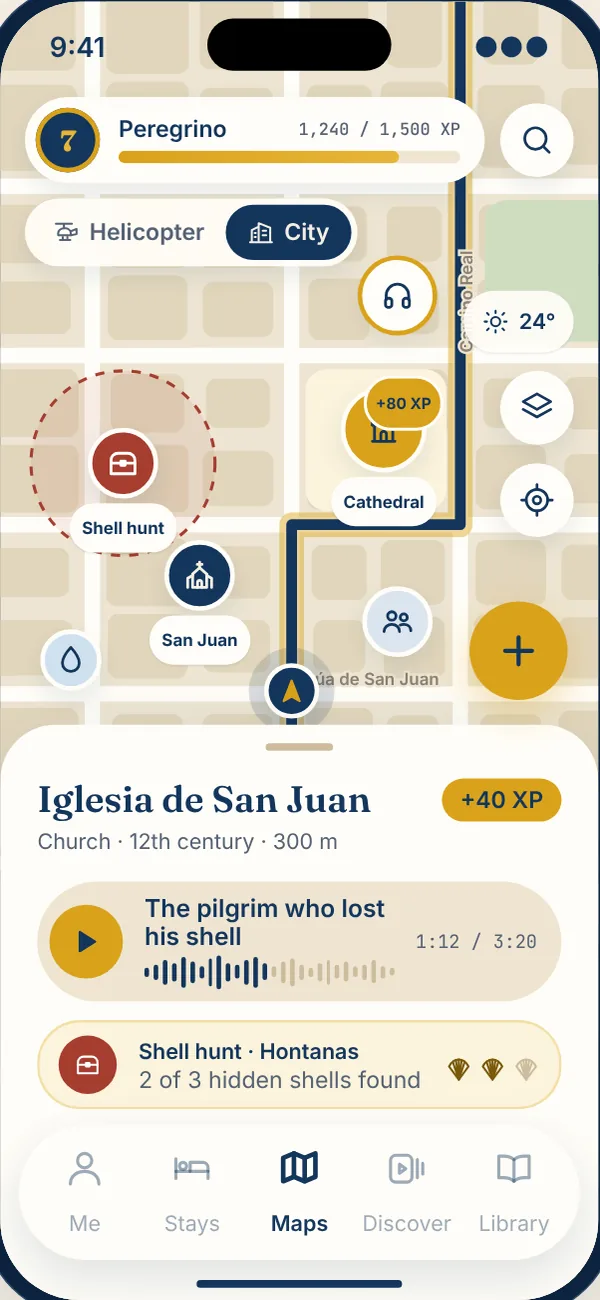
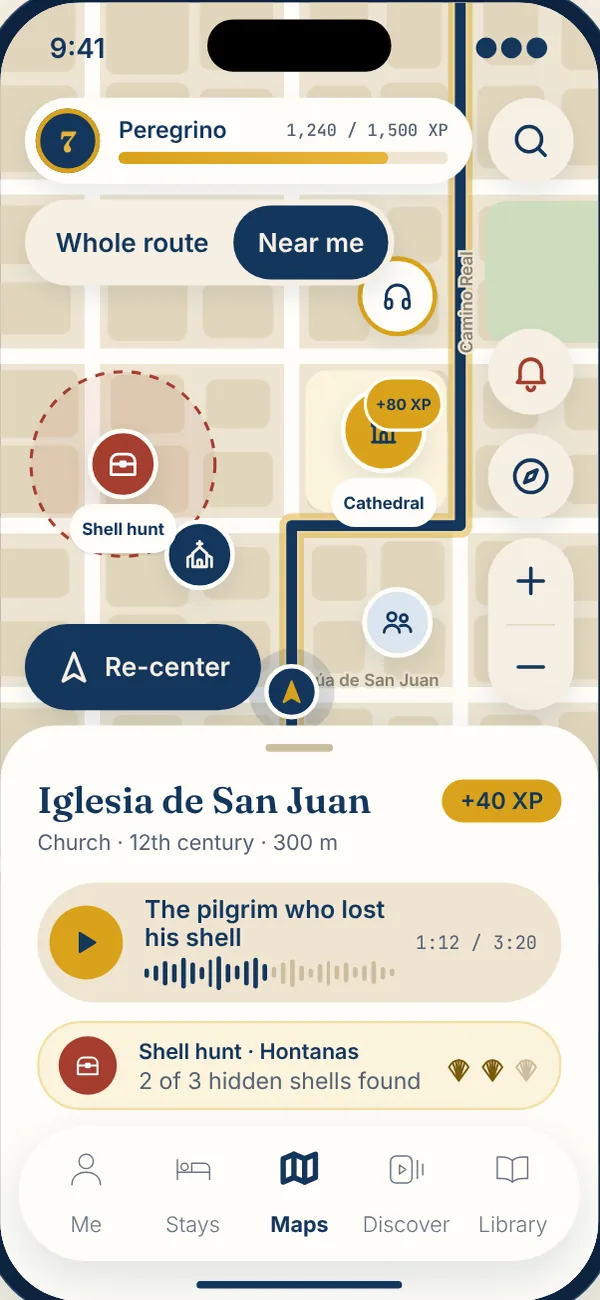
Design page and website pictures: the map phones show the one family of map controls
design/index.html is written by hand, and its map phones still drew the old controls: round buttons of 48, a "layers" and a "locate" button the app does not have, a switch of
36 high that said Helicopter and City, a weather chip, a gold report button, a hint pill and a "You" tag at 11 px. The CSS and the markup of the two map phones now say what the
app draws (mobile/src/features/map/WalkUi.tsx): .cp-map-btn is a round button of 56 with a 28 icon, .cp-map-stack puts them 12 apart, .cp-map-zoom is one capsule of 56 x 112,
.cp-recenter is the Re-center pill (56 high, a 24 arrow, "Re-center" in Inter SemiBold 17), .map-night is the night of the map, and .cp-layer-switch has tabs of 48 at 17 px (the phones
say "Whole route" and "Near me", as the app does). The Helicopter phone has the help bell, locate, the automatic light and the zoom capsule; the City phone, which is the Walk view, has
the bell, the compass, the zoom capsule and the Re-center pill. The gold report button leaves the City phone (it has no place beside the zoom capsule, and the app has no such button);
the label of the church pin is gone from it too, because the pill would have covered it. A new block, "Map controls: one family", in Map layers shows the family by day and by night
with its numbers and the rule for a short phone. The hint pill and the "You" tag are 15 px now (were 11). The unused .cp-fab-stack rule is removed.
[…]

diff --git a/design/index.html b/design/index.html
@@ -405,7 +405,6 @@ textarea.cp-input { height: 120px; border-radius: var(--cp-radius-lg); padding: 
 .cp-alert .bubble { width: 48px; height: 48px; border-radius: 50%; display: grid; place-items: center; flex: none; }
 .cp-alert .t { font-weight: 600; font-size: 17px; line-height: 20px; }
 .cp-alert .m { font-size: 15px; line-height: 18px; color: var(--cp-text-muted); }
-.cp-fab-stack { display: flex; flex-direction: column; gap: 12px; }
 .cp-report-fab { width: 64px; height: 64px; border-radius: 50%; background: var(--cp-color-gold); color: var(--cp-color-blue); display: grid; place-items: center; box-shadow: var(--cp-shadow-gold); border: 0; }
 .cp-report-fab .cp-icon { width: 30px; height: 30px; stroke-width: 2.2px; }
 .cp-eta { display: flex; align-items: center; gap: 14px; }
@@ -978,24 +977,45 @@ footer .hand { font-family: var(--cp-font-accent); font-size: 36px; color: var(-
 .cp-menu small { display: block; font-family: var(--cp-font-body); font-weight: 400; font-size: 15px; color: var(--cp-text-muted); }
 
 /* ---- v4: map layers (helicopter / city) ---- */
-.cp-layer-switch { align-self: flex-start; display: inline-flex; padding: 4px; border-radius: var(--cp-radius-pill); background: rgba(255,253,248,.94); backdrop-filter: blur(10px); box-shadow: var(--cp-shadow-md); }
-.cp-layer-switch span { display: inline-flex; align-items: center; gap: 6px; height: 36px; padding: 0 14px; border-radius: var(--cp-radius-pill); font-size: 15px; font-weight: 600; color: var(--cp-text-muted); white-space: nowrap; }
+.cp-layer-switch { align-self: flex-start; display: inline-flex; padding: 4px; border-radius: var(--cp-radius-pill); background: var(--cp-color-parchment); box-shadow: var(--cp-shadow-md); }
+.cp-layer-switch span { display: inline-flex; align-items: center; gap: 8px; height: 48px; padding: 0 16px; border-radius: var(--cp-radius-pill); font-size: 17px; line-height: 22px; font-weight: 600; color: var(--cp-color-blue); white-space: nowrap; }
 .cp-layer-switch span .cp-icon { width: 18px; height: 18px; }
 .cp-layer-switch span.on { background: var(--cp-color-blue); color: var(--cp-color-parchment); }
 .cp-pin.sm { width: 34px; height: 34px; border-width: 2.5px; }
 .cp-pin.sm .cp-icon { width: 17px; height: 17px; }
 .cp-pin.iconic.md { width: 50px; height: 50px; }
-.cp-hint { display: inline-flex; align-items: center; gap: 8px; height: 34px; padding: 0 14px; border-radius: var(--cp-radius-pill); background: rgba(12,35,64,.82); color: var(--cp-color-parchment); font-family: var(--cp-font-mono); font-size: 11px; white-space: nowrap; }
-.cp-hint .cp-icon { width: 16px; height: 16px; }
+.cp-hint { display: inline-flex; align-items: center; gap: 8px; height: 40px; padding: 0 16px; border-radius: var(--cp-radius-pill); background: rgba(12,35,64,.82); color: var(--cp-color-parchment); font-family: var(--cp-font-mono); font-size: 15px; white-space: nowrap; }
+.cp-hint .cp-icon { width: 18px; height: 18px; }
 .cp-elev { display: block; width: 100%; height: 64px; }
 .cp-youhere { position: absolute; z-index: 3; display: flex; align-items: center; gap: 8px; }
 .cp-youhere .ring { width: 50px; height: 50px; border-radius: 50%; background: rgba(217,162,27,.28); display: grid; place-items: center; }
 .cp-youhere .dot { width: 30px; height: 30px; border-radius: 50%; background: var(--cp-color-blue); border: 3px solid var(--cp-color-white); box-shadow: var(--cp-shadow-md); display: grid; place-items: center; }
 .cp-youhere .dot .cp-icon { width: 14px; height: 14px; fill: var(--cp-color-gold); stroke: var(--cp-color-gold); }
-.cp-youhere .tag { background: var(--cp-color-white); border-radius: var(--cp-radius-pill); padding: 4px 10px; font-size: 11px; font-weight: 700; box-shadow: var(--cp-shadow-sm); white-space: nowrap; }
+.cp-youhere .tag { background: var(--cp-color-white); border-radius: var(--cp-radius-pill); padding: 4px 12px; font-size: 15px; font-weight: 700; box-shadow: var(--cp-shadow-sm); white-space: nowrap; }
 .cp-legend { display: grid; grid-template-columns: 1fr 1fr; gap: 12px 20px; font-size: 16px; }
 .cp-legend div { display: flex; align-items: center; gap: 10px; }
 .cp-legend i { width: 26px; height: 0; display: block; flex: none; }
+
+/* ---- Map controls: ONE family on the map (mobile/src/features/map/WalkUi.tsx, controlLayout.ts). Round buttons of 56 (touchPrimary) with a 28 icon, 12 apart, 16 from the edge
+   of the screen; the zoom pair is one capsule of 56 x 112; the Re-center pill is 56 high with a 24 arrow and its label in Inter SemiBold 17. The map has its own day and night
+   (.map-night), and neither follows the app's dark mode. A short phone shows the controls that fit, most important first, and folds the rest into "Map options" of the route sheet. ---- */
+.cp-map-btn { position: relative; width: 56px; height: 56px; padding: 0; border: 0; border-radius: 50%; display: inline-grid; place-items: center; background: var(--cp-color-parchment); color: var(--cp-color-blue); box-shadow: var(--cp-shadow-md); cursor: pointer; }
+.cp-map-btn .cp-icon { width: 28px; height: 28px; stroke-width: 2px; }
+.cp-map-btn.bell { color: var(--cp-color-red); }
+.cp-map-btn.on { background: var(--cp-color-gold-wash); box-shadow: inset 0 0 0 1.5px var(--cp-color-gold), var(--cp-shadow-md); }
+.cp-map-btn .auto { position: absolute; right: 2px; bottom: 2px; width: 20px; height: 20px; border-radius: 50%; background: var(--cp-color-gold); color: var(--cp-color-blue); display: grid; place-items: center; font: 600 17px/20px var(--cp-font-body); }
+.cp-map-stack { display: flex; flex-direction: column; align-items: flex-end; gap: 12px; }
+.cp-map-zoom { position: relative; width: 56px; height: 112px; border-radius: 28px; display: grid; grid-template-rows: 56px 56px; background: var(--cp-color-parchment); color: var(--cp-color-blue); box-shadow: var(--cp-shadow-md); }
+.cp-map-zoom button { border: 0; padding: 0; background: none; color: inherit; display: grid; place-items: center; cursor: pointer; }
+.cp-map-zoom .cp-icon { width: 28px; height: 28px; stroke-width: 2px; }
+.cp-map-zoom::after { content: ""; position: absolute; left: 12px; right: 12px; top: 56px; height: 1px; background: var(--cp-color-sand-300); }
+.cp-recenter { display: inline-flex; align-items: center; gap: 8px; height: 56px; padding: 0 20px; border: 0; border-radius: 28px; background: var(--cp-color-blue); color: var(--cp-color-parchment); font: 600 17px/22px var(--cp-font-body); box-shadow: var(--cp-shadow-md); cursor: pointer; white-space: nowrap; }
+.cp-recenter .cp-icon { width: 24px; height: 24px; stroke-width: 2.2px; }
+.map-night .cp-map-btn, .map-night .cp-map-zoom { background: #13243C; color: #F6EFE2; box-shadow: inset 0 0 0 1.5px rgba(246,239,226,.24), var(--cp-shadow-md); }
+.map-night .cp-map-btn.bell { color: #E8776A; }
+.map-night .cp-map-btn.on { background: #1E3A63; box-shadow: inset 0 0 0 1.5px var(--cp-color-gold), var(--cp-shadow-md); }
+.map-night .cp-map-zoom::after { background: rgba(246,239,226,.24); }
+.map-night .cp-recenter { background: #13243C; box-shadow: inset 0 0 0 1.5px rgba(246,239,226,.24), var(--cp-shadow-md); }
 
 /* ---- v5: inbox, notifications, Instagram-style post flow ---- */
 .cp-inbox-top { display: flex; align-items: center; gap: 10px; }
@@ -1683,12 +1703,12 @@ footer .hand { font-family: var(--cp-font-accent); font-size: 36px; color: var(-
       <div class="cp-alert"><span class="bubble b-blue"><svg class="cp-icon"><use href="#i-crowd"/></svg></span><div style="flex:1"><div class="t">Busy at Hontanas</div><div class="m">Albergues filling fast after 14:00</div></div></div>
       <div class="cp-alert"><span class="bubble b-red"><svg class="cp-icon"><use href="#i-bed-full"/></svg></span><div style="flex:1"><div class="t">Albergue Municipal is full</div><div class="m">2 alternatives within 800 m</div></div></div>
       <div class="panel row" style="justify-content:space-between">
-        <div class="cp-fab-stack"><button class="cp-icon-btn"><svg class="cp-icon"><use href="#i-layers"/></svg></button><button class="cp-icon-btn"><svg class="cp-icon"><use href="#i-locate"/></svg></button></div>
+        <div class="cp-map-stack"><button class="cp-map-btn"><svg class="cp-icon"><use href="#i-layers"/></svg></button><button class="cp-map-btn"><svg class="cp-icon"><use href="#i-locate"/></svg></button></div>
         <span class="cp-badge glass" style="height:40px;padding:0 16px;font-size:15px"><svg class="cp-icon sm"><use href="#i-sun"/></svg>24° · Clear</span>
         <span class="cp-badge glass" style="height:40px;padding:0 16px;font-size:15px"><svg class="cp-icon sm"><use href="#i-offline"/></svg>Offline ready</span>
         <button class="cp-report-fab"><svg class="cp-icon"><use href="#i-plus"/></svg></button>
       </div>
-      <p class="spec" style="margin:0">.cp-alert (pill toast, shadow-lg) · floating .cp-icon-btn 48 · weather / offline glass pills · .cp-report-fab (gold, bottom-right)</p>
+      <p class="spec" style="margin:0">.cp-alert (pill toast, shadow-lg) · floating .cp-map-btn 56 with a 28 icon (see Map controls, in Map layers) · weather / offline glass pills · .cp-report-fab (gold, bottom-right)</p>
     </div>
   </div>
 </section>
@@ -1868,6 +1888,40 @@ footer .hand { font-family: var(--cp-font-accent); font-size: 36px; color: var(-
       <p class="note" style="margin:16px 0 0">Switch with the pill, or pinch: below zoom 9 the app shows Helicopter, above zoom 12 it shows City. The change flies the camera over 320 ms. Both layers work offline from the downloaded route pack.</p>
     </div>
   </div>
+
+  <h3>Map controls: one family</h3>
+  <div class="grid g2" style="align-items:start">
+    <div class="panel" style="background:#E7E0CB">
+      <div style="display:flex;gap:28px;align-items:flex-end;flex-wrap:wrap">
+        <div class="cp-map-stack">
+          <button class="cp-map-btn bell" aria-label="Need help"><svg class="cp-icon"><use href="#i-bell"/></svg></button>
+          <button class="cp-map-btn" aria-label="Compass"><svg class="cp-icon"><use href="#i-compass"/></svg></button>
+          <button class="cp-map-btn on" aria-label="What is near"><svg class="cp-icon"><use href="#i-search"/></svg></button>
+          <button class="cp-map-btn" aria-label="Map light: automatic"><svg class="cp-icon"><use href="#i-sun"/></svg><span class="auto" aria-hidden="true">A</span></button>
+          <div class="cp-map-zoom"><button aria-label="Zoom in"><svg class="cp-icon"><use href="#i-plus"/></svg></button><button aria-label="Zoom out"><svg class="cp-icon" viewBox="0 0 24 24"><path d="M5 12h14"/></svg></button></div>
+        </div>
+        <div style="display:flex;flex-direction:column;gap:16px;align-items:flex-start">
+          <button class="cp-recenter"><svg class="cp-icon"><use href="#i-nav"/></svg>Re-center</button>
+          <div class="cp-layer-switch"><span class="on">Whole route</span><span class="">Near me</span></div>
+        </div>
+      </div>
+    </div>
+    <div class="panel map-night" style="background:#0C1626">
+      <div style="display:flex;gap:28px;align-items:flex-end;flex-wrap:wrap">
+        <div class="cp-map-stack">
+          <button class="cp-map-btn bell" aria-label="Need help"><svg class="cp-icon"><use href="#i-bell"/></svg></button>
+          <button class="cp-map-btn" aria-label="Compass"><svg class="cp-icon"><use href="#i-compass"/></svg></button>
+          <button class="cp-map-btn on" aria-label="What is near"><svg class="cp-icon"><use href="#i-search"/></svg></button>
+          <button class="cp-map-btn" aria-label="Map light: night"><svg class="cp-icon"><use href="#i-moon"/></svg></button>
+          <div class="cp-map-zoom"><button aria-label="Zoom in"><svg class="cp-icon"><use href="#i-plus"/></svg></button><button aria-label="Zoom out"><svg class="cp-icon" viewBox="0 0 24 24"><path d="M5 12h14"/></svg></button></div>
+        </div>
+        <div style="display:flex;flex-direction:column;gap:16px;align-items:flex-start">
+          <button class="cp-recenter"><svg class="cp-icon"><use href="#i-nav"/></svg>Re-center</button>
+        </div>
+      </div>
+    </div>
+  </div>
+  <p class="spec" style="margin:16px 0 0">.cp-map-btn 56 round, icon 28 (.bell red, .on gold ring, .auto the A of the automatic light) · .cp-map-stack 12 apart, 16 from the edge · .cp-map-zoom one capsule 56 x 112, the halves 56 · .cp-recenter 56 high, 24 arrow, label 17 SemiBold, 16 from the left edge and level with the bottom of the stack · .map-night is the night of the map (it does not follow the app's dark mode). The zoom pair never folds; the help bell is in the column or in the row of buttons of the bottom card. On a short phone the column shows the controls that fit, most important first (zoom pair, help bell, compass or locate, what is near, light, GPS), and the rest are rows of "Map options" in the route sheet that the flag button opens. Nothing under 15 px, nothing under 48 to tap.</p>
 
   <h3>Inbox & notifications</h3>
   <div class="grid g2" style="align-items:start">
@@ -2986,13 +3040,15 @@ footer .hand { font-family: var(--cp-font-accent); font-size: 36px; color: var(-
         <div style="position:absolute;top:62px;left:16px;right:16px;display:flex;flex-direction:column;gap:10px;z-index:4">
           <div style="display:flex;gap:10px;align-items:center">
             <div class="cp-hud" style="flex:1"><span class="cp-level">7</span><div style="flex:1"><div class="t">Peregrino<span>1,240 / 1,500 XP</span></div><div class="cp-xp"><span style="width:82%"></span></div></div></div>
-            <button class="cp-icon-btn" aria-label="Search"><svg class="cp-icon "><use href="#i-search"/></svg></button>
+            <button class="cp-map-btn" aria-label="Search"><svg class="cp-icon "><use href="#i-search"/></svg></button>
           </div>
-          <div class="cp-layer-switch"><span class="on"><svg class="cp-icon "><use href="#i-heli"/></svg>Helicopter</span><span class=""><svg class="cp-icon "><use href="#i-city"/></svg>City</span></div>
+          <div class="cp-layer-switch"><span class="on">Whole route</span><span class="">Near me</span></div>
         </div>
-        <div class="cp-fab-stack" style="position:absolute;right:16px;top:188px;z-index:4">
-          <button class="cp-icon-btn" style="align-self:flex-end"><svg class="cp-icon "><use href="#i-layers"/></svg></button>
-          <button class="cp-icon-btn" style="align-self:flex-end"><svg class="cp-icon "><use href="#i-locate"/></svg></button>
+        <div class="cp-map-stack" style="position:absolute;right:16px;bottom:340px;z-index:4">
+          <button class="cp-map-btn bell" aria-label="Need help"><svg class="cp-icon "><use href="#i-bell"/></svg></button>
+          <button class="cp-map-btn" aria-label="Show my position"><svg class="cp-icon "><use href="#i-locate"/></svg></button>
+          <button class="cp-map-btn" aria-label="Map light: automatic"><svg class="cp-icon "><use href="#i-sun"/></svg><span class="auto" aria-hidden="true">A</span></button>
+          <div class="cp-map-zoom"><button aria-label="Zoom in"><svg class="cp-icon "><use href="#i-plus"/></svg></button><button aria-label="Zoom out"><svg class="cp-icon" viewBox="0 0 24 24"><path d="M5 12h14"/></svg></button></div>
         </div>
         <div class="cp-sheet" style="position:absolute;left:0;right:0;bottom:0;padding-bottom:124px;z-index:5">
           <div class="grab"></div>
@@ -3035,7 +3091,7 @@ footer .hand { font-family: var(--cp-font-accent); font-size: 36px; color: var(-
           <g font-family="Inter" font-size="11" font-weight="600" fill="#8C8272" paint-order="stroke" stroke="#EDE5D3" stroke-width="3"><text x="70" y="114">Calle Mayor</text><text x="198" y="444">Rúa de San Juan</text><text x="308" y="228" transform="rotate(-90 308 228)">Camino Real</text></g>
         </svg>
         <div class="cp-pin iconic" style="position:absolute;left:222px;top:250px;z-index:2"><svg class="cp-icon "><use href="#i-landmark"/></svg><span class="xp">+80 XP</span><span class="cp-pin-label">Cathedral</span></div>
-        <div class="cp-pin church" style="position:absolute;left:107px;top:350px;z-index:2"><svg class="cp-icon "><use href="#i-church"/></svg><span class="cp-pin-label">San Juan</span></div>
+        <div class="cp-pin church" style="position:absolute;left:107px;top:336px;z-index:2"><svg class="cp-icon "><use href="#i-church"/></svg></div>
         <div class="cp-pin hunt" style="position:absolute;left:57px;top:277px;z-index:2"><svg class="cp-icon "><use href="#i-chest"/></svg><span class="cp-pin-label">Shell hunt</span></div>
         <div class="cp-pin story" style="position:absolute;left:236px;top:168px;z-index:2"><svg class="cp-icon "><use href="#i-headphones"/></svg></div>
         <div class="cp-pin water" style="position:absolute;left:26px;top:408px;z-index:2"><svg class="cp-icon "><use href="#i-drop"/></svg></div>
@@ -3045,18 +3101,18 @@ footer .hand { font-family: var(--cp-font-accent); font-size: 36px; color: var(-
         <div style="position:absolute;top:62px;left:16px;right:16px;display:flex;flex-direction:column;gap:10px;z-index:4">
           <div style="display:flex;gap:10px;align-items:center">
             <div class="cp-hud" style="flex:1"><span class="cp-level">7</span><div style="flex:1"><div class="t">Peregrino<span>1,240 / 1,500 XP</span></div><div class="cp-xp"><span style="width:82%"></span></div></div></div>
-            <button class="cp-icon-btn" aria-label="Search"><svg class="cp-icon"><use href="#i-search"/></svg></button>
+            <button class="cp-map-btn" aria-label="Search"><svg class="cp-icon"><use href="#i-search"/></svg></button>
           </div>
-          <div class="cp-layer-switch"><span class=""><svg class="cp-icon "><use href="#i-heli"/></svg>Helicopter</span><span class="on"><svg class="cp-icon "><use href="#i-city"/></svg>City</span></div>
+          <div class="cp-layer-switch"><span class="">Whole route</span><span class="on">Near me</span></div>
         </div>
-        <div class="cp-fab-stack" style="position:absolute;right:16px;top:188px;z-index:4">
-          <span class="cp-badge glass" style="height:40px;padding:0 12px;font-size:14px"><svg class="cp-icon sm"><use href="#i-sun"/></svg>24°</span>
-          <button class="cp-icon-btn" style="align-self:flex-end"><svg class="cp-icon"><use href="#i-layers"/></svg></button>
-          <button class="cp-icon-btn" style="align-self:flex-end"><svg class="cp-icon"><use href="#i-locate"/></svg></button>
+        <div class="cp-map-stack" style="position:absolute;right:16px;bottom:384px;z-index:4">
+          <button class="cp-map-btn bell" aria-label="Need help"><svg class="cp-icon"><use href="#i-bell"/></svg></button>
+          <button class="cp-map-btn" aria-label="Compass"><svg class="cp-icon"><use href="#i-compass"/></svg></button>
+          <div class="cp-map-zoom"><button aria-label="Zoom in"><svg class="cp-icon"><use href="#i-plus"/></svg></button><button aria-label="Zoom out"><svg class="cp-icon" viewBox="0 0 24 24"><path d="M5 12h14"/></svg></button></div>
         </div>
+        <div style="position:absolute;left:16px;bottom:384px;z-index:4"><button class="cp-recenter"><svg class="cp-icon"><use href="#i-nav"/></svg>Re-center</button></div>
         <div class="cp-sheet" style="position:absolute;left:0;right:0;bottom:0;padding-bottom:124px;z-index:5">
           <div class="grab"></div>
-          <button class="cp-report-fab" style="position:absolute;right:20px;top:-80px" aria-label="Report"><svg class="cp-icon"><use href="#i-plus"/></svg></button>
           <div style="display:flex;justify-content:space-between;align-items:flex-start;gap:12px">
             <div><div style="font-family:var(--cp-font-title);font-weight:600;font-size:24px;line-height:28px">Iglesia de San Juan</div><div class="note" style="font-size:14px">Church · 12th century · 300 m</div></div>
             <span class="cp-badge gold">+40 XP</span>

diff --git a/mobile/src/features/map/WalkUi.tsx b/mobile/src/features/map/WalkUi.tsx
@@ -9,7 +9,7 @@ import { AccessibilityInfo, Animated, PanResponder, Platform, Pressable, ScrollV
 import Svg, { Circle, G, Polygon } from 'react-native-svg';
 import { AppText } from '@/components/AppText';
 import { Icon, IconName } from '@/components/Icon';
-import { c, fixed, icon, layout, radius, role, shadowStyle, space } from '@/theme';
+import { c, fixed, fonts, icon, layout, radius, role, shadowStyle, space } from '@/theme';
 import type { Banner, Card, AheadItem } from './nav';
 import type { PoiKind } from './sampleRoute';
 import { POI_KINDS, kindHex } from './walkLayers';
@@ -388,7 +388,7 @@ export function WalkCard(p: CardProps) {
             onPress={p.onExit}
             style={({ pressed }) => ({ flex: 1, height: BTN, borderRadius: radius.pill, backgroundColor: c.red, alignItems: 'center', justifyContent: 'center', opacity: pressed ? 0.88 : 1 })}
           >
-            <AppText variant="label" color={c.parchment} maxFontSizeMultiplier={CONTROL_TEXT_MAX}>Exit</AppText>
+            <AppText variant="lead" color={c.parchment} maxFontSizeMultiplier={CONTROL_TEXT_MAX} style={{ fontFamily: fonts.bodyBold }}>Exit</AppText>
           </Pressable>
         </View>
       </View>

diff --git a/tools/web-smoke/README.md b/tools/web-smoke/README.md
@@ -104,6 +104,14 @@ Then the **scenarios** ([scenarios.mjs](scenarios.mjs)), each in light and dark,
     "3 of 34 places"; a stamp shows exactly the posts at that place with the card that writes a post once, the app's one Back button over it goes back to the stamps (not to all the posts), and
     All again closes the stamps; a place with no post says "No journeys at <place> yet" over the card alone; from Plan and Health All opens the stamps of Journey, and a destination of the row
     still shows its posts (the same one again clears it); a plan with no destination still has the All item, alone in the row; an account whose route has no places has no All item;
+- Maps ([maps.scenarios.mjs](maps.scenarios.mjs), the round controls of the Maps tab, on 320 x 568, 360 x 640, 390 x 844 and 430 x 932 with the safe area of a phone where Chromium can add it): every round
+  control, on the whole route and in the Walk view, is 56 by 56 with a 28 icon, 16 from the right edge and 12 apart, the zoom pair one capsule 56 wide and 112 high whose halves touch; the Re-center pill
+  (the map is dragged by hand first) is 56 high with a 24 arrow and "Re-center" in Inter SemiBold at 17, 16 from the left edge, level with the bottom of the column and 12 or more from it; the Walk view
+  column ends 12 above the bottom card and the whole route column 16 above the tab bar; the top row ("Whole route / Near me", 56 high, and the offline maps button) never touches at 320 wide; nothing on
+  the screen overlaps (banner, chips, notices, column, pill, card, tab bar) and no text is under 15 px; a short phone folds what does not fit into the "Map options" rows of the sheet of the flag button
+  (named "Route details and map options"), which work there, while the zoom pair and the help bell (in the column, or in the row of buttons of the card) are always there; and with the text 1.5 and 2 times
+  as big (the page's text and line heights scaled, as a phone does: the web has no such setting) nothing overlaps and the zoom pair is still reachable. The check fails on the build before the family existed
+  (the help bell was 48 wide);
 - Notes, a page is a draft until it is published: on a blank page Read and Publish are off and there is no Save draft; with words in it Save draft is at the
   top right and the date says Draft; the marks (Bold, Italic, Heading, Bulleted list, Quote) sit inside the text box, under the text and above the bottom
   row; Read is a third and Publish two thirds of one row at the bottom (margin to margin, at least 48 high); Read turns into Edit in the same place; Save draft
@@ -246,6 +254,7 @@ Chromium; a test checks they agree). Bump both on purpose, with the tests looked
 | [me.scenarios.mjs](me.scenarios.mjs) | the walks of Me: the header with the gear alone, the chat button and where it opens, the card of Journey (also in the sample journey), the card of Notes |
 | [pilgrim.scenarios.mjs](pilgrim.scenarios.mjs) | the walks of the profile of another pilgrim: a friend, a stranger, a private one, one that is not there, no signal, the name of a comment author, and that nothing private is on it |
 | [allplaces.scenarios.mjs](allplaces.scenarios.mjs) | the walks of the All item of Me: the row, the stamps of the route, the journeys at a place, the way back, Plan and Health, no destination, no places |
+| [maps.scenarios.mjs](maps.scenarios.mjs) | the walks of the Maps tab: the round controls as one family, nothing overlapping, the folded controls in Map options, large text |
 | [bible.scenarios.mjs](bible.scenarios.mjs) | the walks of the Bible tab and the reader (kept apart so the other walks stay short) |
 | [books.scenarios.mjs](books.scenarios.mjs) | the walks of the Books tab: the covers, a book page, the reader, the place kept on the phone, the notice of each kind |
 | [continue.scenarios.mjs](continue.scenarios.mjs) | the walks of the Continue reading bar above the tab bar of the Library: where it sits, closing it, the most recent place, a mark that does not read |

diff --git a/mobile/docs/MAPS.md b/mobile/docs/MAPS.md
@@ -58,6 +58,17 @@ npm run build:dev:ios         # needs an Apple Developer account ($99/yr) and yo
 | Sample route: the stages and the route (the OSM lines joined, the hand-placed lines only as the fallback, straight lines between towns after Pamplona), the towns, the sample pins and position (approximate) | `src/features/map/sampleRoute.ts` |
 | Pins: real stays and points of interest of the stage (`rpc list_stage_stays` / `list_stage_pois`), a saved copy, the sample pins as the fallback | `src/features/places/` (`useStagePois`, `useStageStays`, `choosePins`) |
 
+**The round controls on the map** (`src/features/map/WalkUi.tsx`, `controlLayout.ts`, `app/(tabs)/maps.tsx`). One family, on the whole route and in the Walk view: round buttons of 56
+(`layout.touchPrimary`) with a 28 icon (`icon.mdPlus`), 12 apart (`space[3]`), 16 from the edge of the screen; zoom in and out are one capsule of 56 x 112; the Re-center pill is 56 high with a
+24 arrow and "Re-center" at the `label` variant, at the left and level with the bottom of the column. The column ends 12 above the bottom card in the Walk view and 16 above the tab bar on the
+whole route. The whole family (eight 56 buttons) needs 532 px, which no phone has between the banner and the card, so `controlLayout.ts` shows the controls in order of importance while they
+fit (the zoom pair, the help bell, the compass or "Show my position", "What is near", the map light, GPS, and on the whole route the flag) and the rest are rows of "Map options" in the route
+sheet that the flag button opens (its label then says "Route details and map options"). The zoom pair never folds; the help bell moves into the row of buttons of the bottom card when the
+column has no room for it; when not even one button fits (the largest text on a 320 x 568 phone) the column is not drawn and Zoom in and Zoom out are rows of Map options too. The label of a
+control stops growing at 1.3 times the text setting (`CONTROL_TEXT_MAX`); the banner, the card and the sheets grow without a limit and the column folds to make room. The overlay has its own
+day and night (`walkTheme`): it reads the fixed palette, never `c.*`, so a dark app does not turn the icons of a night map dark. Tests: `features/map/__tests__/controlLayout.test.ts` (the
+arithmetic), `lib/__tests__/mapControls.test.ts` (the code), `tools/web-smoke/maps.scenarios.mjs` (the real screen on four phones, light and dark, and with large text).
+
 **Online vs offline.** One style draws both. Online (internet): MapTiler `v3` tiles with a key,
 OpenFreeMap's keyless tiles without one. Offline: our own OSM `.pmtiles` packs for the current stage ±1.
 MapTiler's terms forbid offline caching, so MapTiler tiles are never put in a pack;
